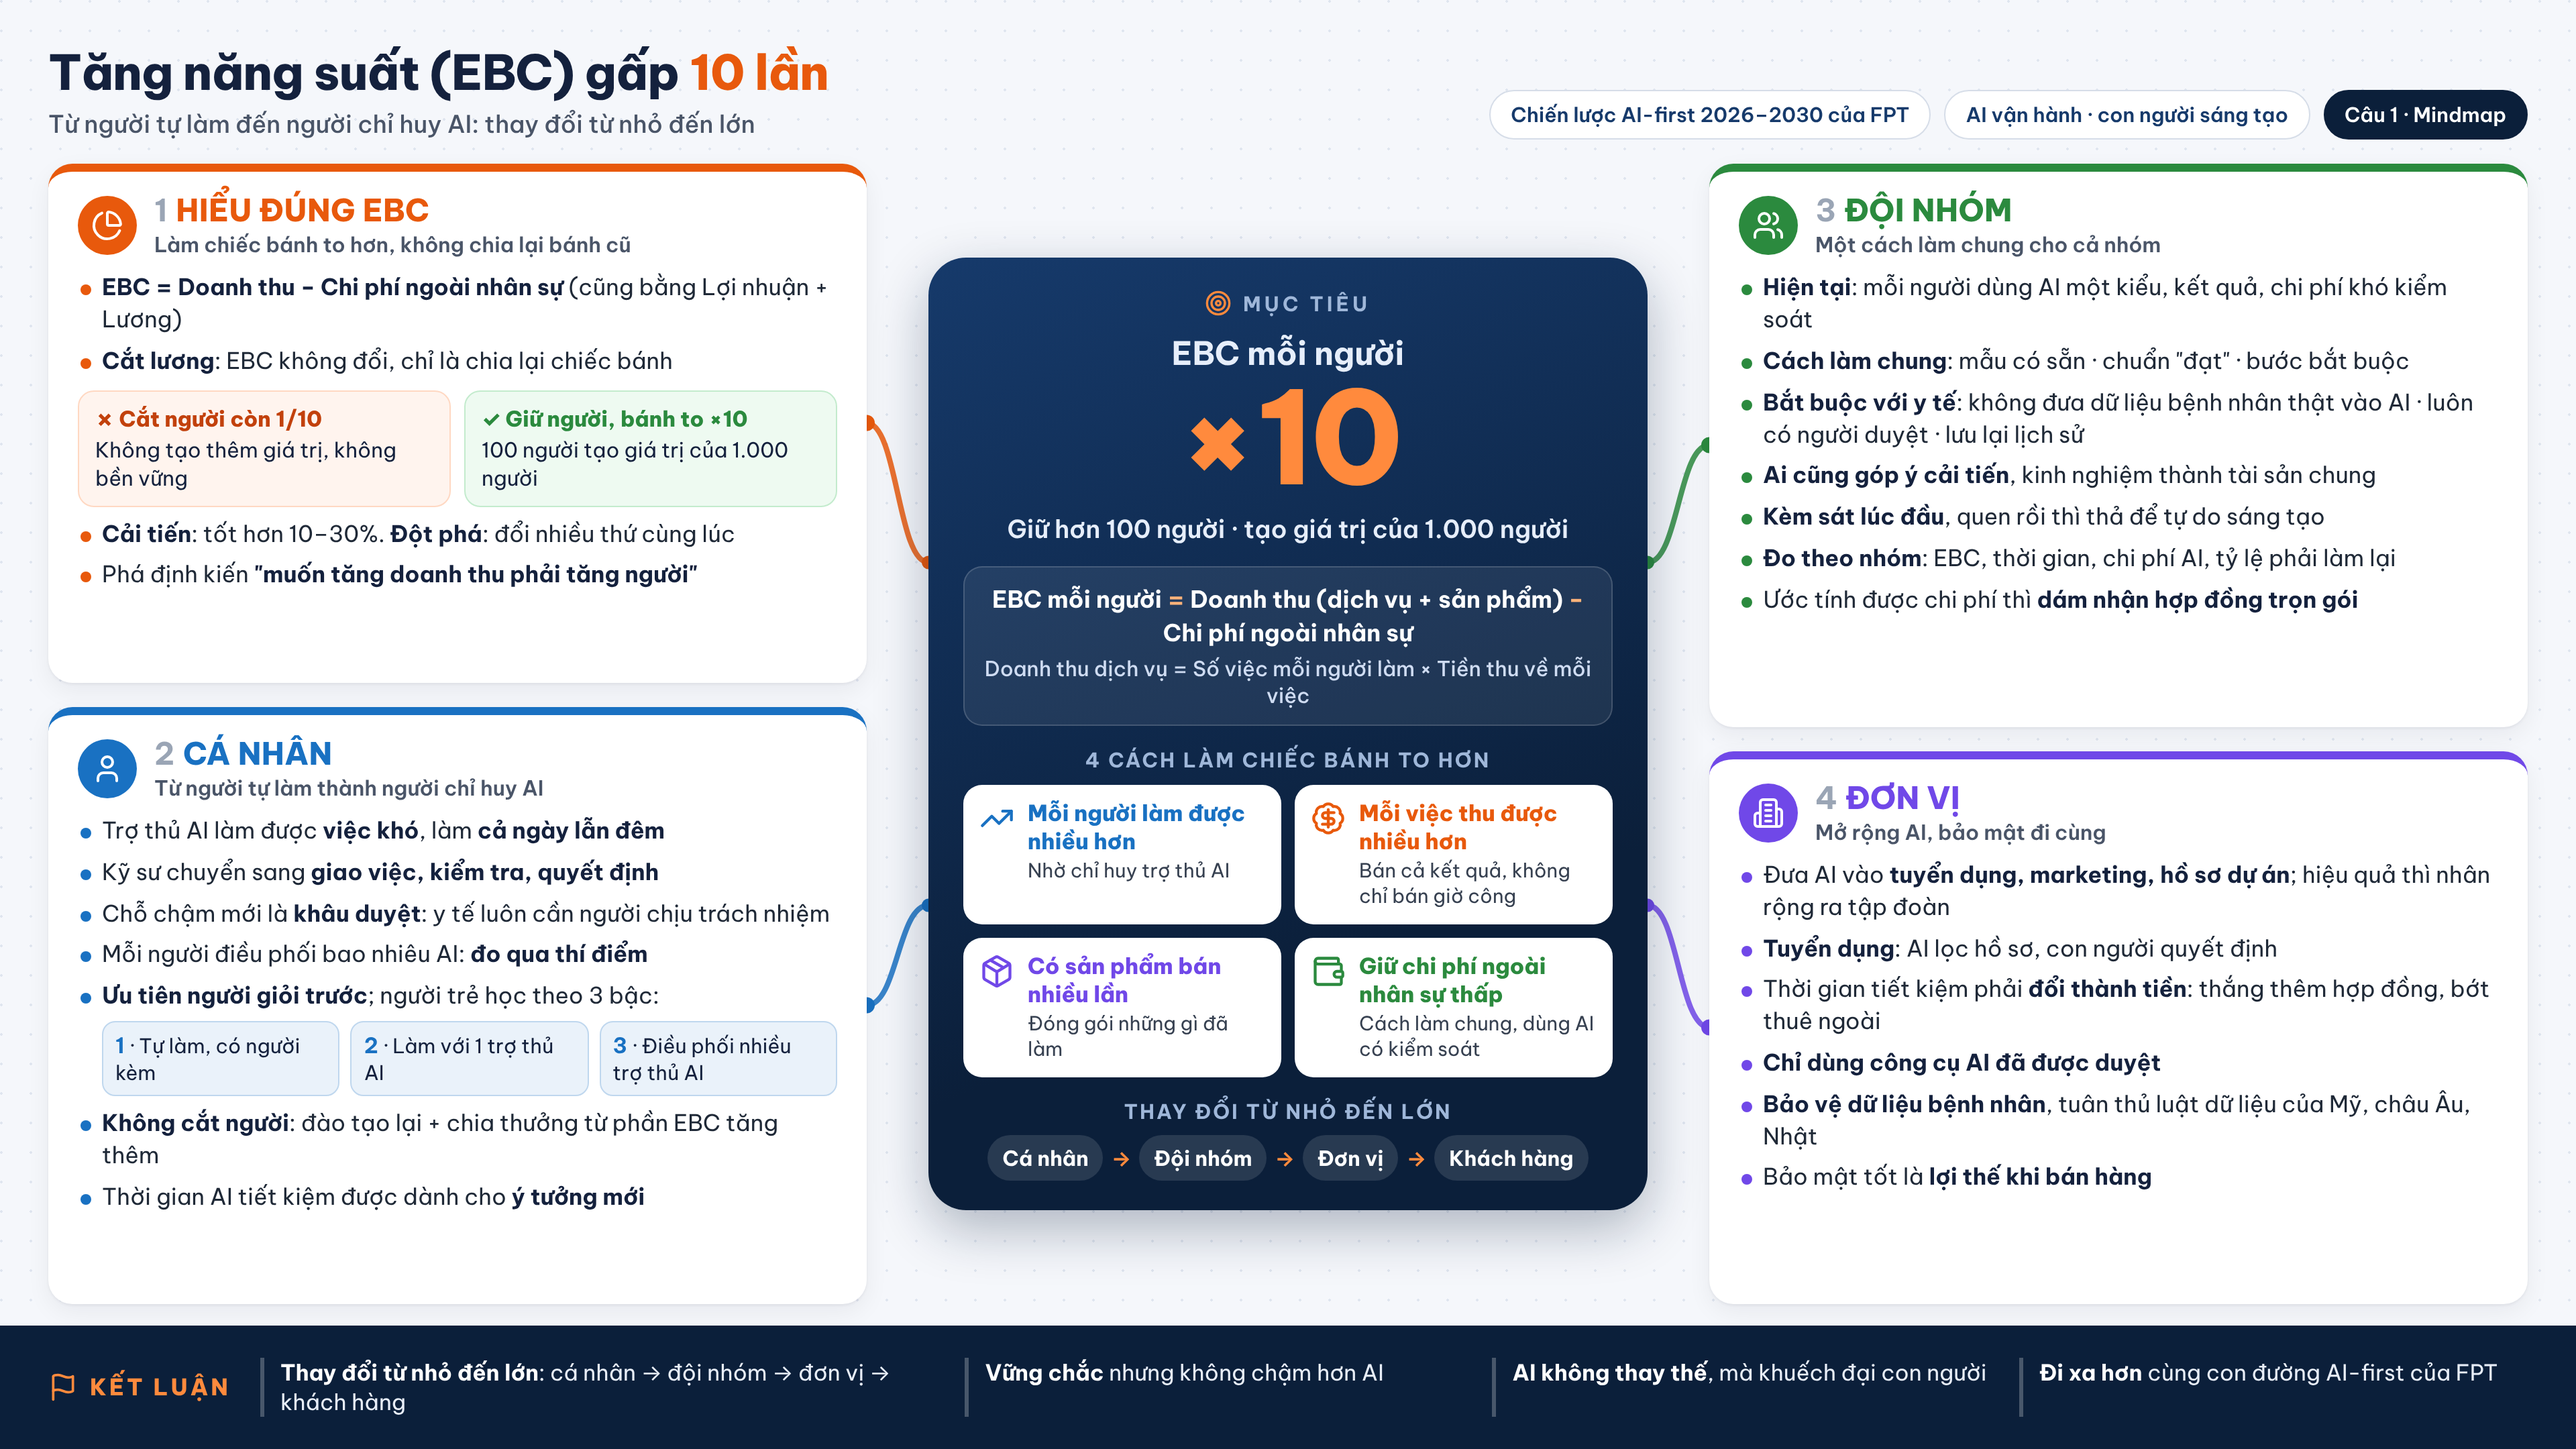
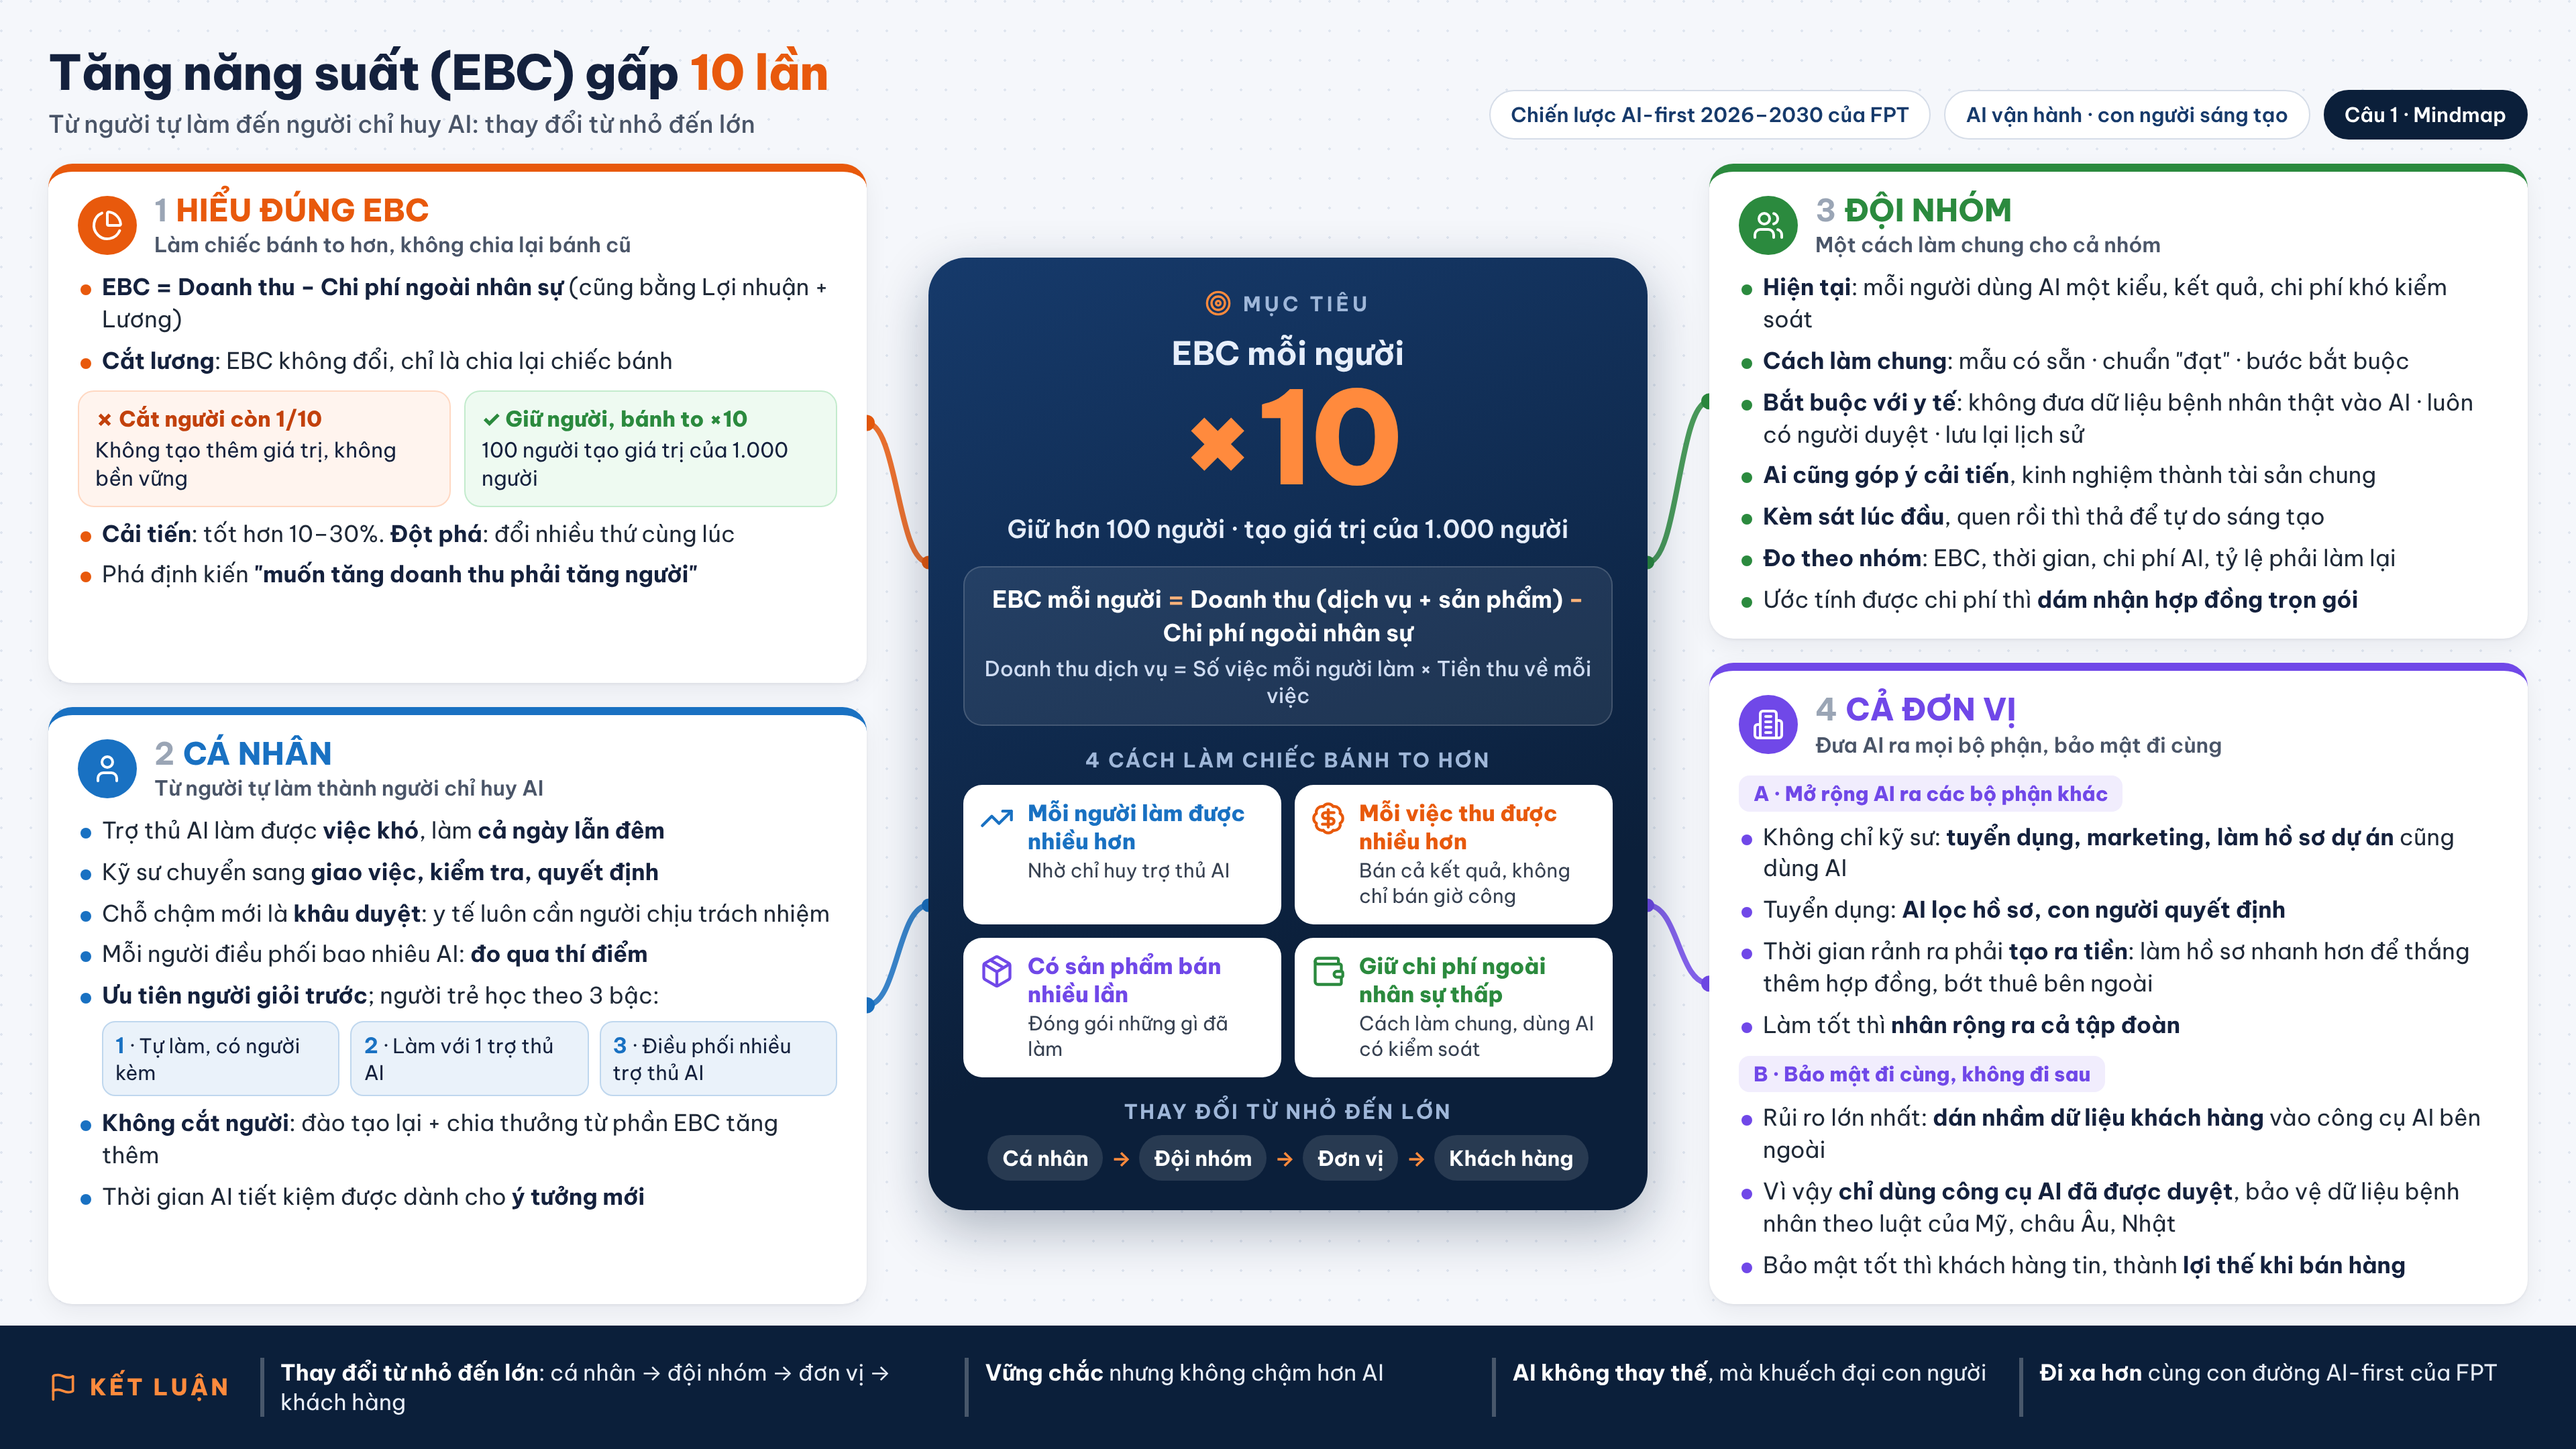
fix: split mindmap branch 4 into AI rollout and data security groups
Plain-language reasons for each point so the branch reads clearly.

Changed region(s): [[0.6562, 0.4343, 0.9688, 0.8995], [0.625, 0.3102, 0.6562, 0.3722], [0.625, 0.6514, 0.6562, 0.6824]]

diff --git a/mindmap/mindmap-cau-1.html b/mindmap/mindmap-cau-1.html
@@ -71,6 +71,8 @@
   .steps { display: flex; gap: 8px; margin: 6px 0 9px 18px; }
   .step { flex: 1; background: color-mix(in srgb, var(--c) 9%, #fff); border: 1px solid color-mix(in srgb, var(--c) 28%, #fff); border-radius: 10px; padding: 7px 9px; font-size: 15px; line-height: 1.3; }
   .step b { color: var(--c); font-size: 16px; }
+  .grp { display: inline-block; font-size: 15px; font-weight: 800; color: var(--c); background: color-mix(in srgb, var(--c) 10%, #fff); border-radius: 8px; padding: 4px 11px; margin: 2px 0 8px; }
+  .card ul + .grp { margin-top: 11px; }
   .c1 { --c: var(--c1); } .c2 { --c: var(--c2); } .c3 { --c: var(--c3); } .c4 { --c: var(--c4); }
 
   /* Hub */
@@ -203,14 +205,19 @@
       </section>
 
       <section class="card c4" id="n4">
-        <header><span class="badge"><span class="ico i-building"></span></span><div><h2><span class="n">4</span>ĐƠN VỊ</h2><div class="sub">Mở rộng AI, bảo mật đi cùng</div></div></header>
+        <header><span class="badge"><span class="ico i-building"></span></span><div><h2><span class="n">4</span>CẢ ĐƠN VỊ</h2><div class="sub">Đưa AI ra mọi bộ phận, bảo mật đi cùng</div></div></header>
+        <div class="grp">A · Mở rộng AI ra các bộ phận khác</div>
         <ul>
-          <li>Đưa AI vào <b>tuyển dụng, marketing, hồ sơ dự án</b>; hiệu quả thì nhân rộng ra tập đoàn</li>
-          <li><b>Tuyển dụng</b>: AI lọc hồ sơ, con người quyết định</li>
-          <li>Thời gian tiết kiệm phải <b>đổi thành tiền</b>: thắng thêm hợp đồng, bớt thuê ngoài</li>
-          <li><b>Chỉ dùng công cụ AI đã được duyệt</b></li>
-          <li><b>Bảo vệ dữ liệu bệnh nhân</b>, tuân thủ luật dữ liệu của Mỹ, châu Âu, Nhật</li>
-          <li>Bảo mật tốt là <b>lợi thế khi bán hàng</b></li>
+          <li>Không chỉ kỹ sư: <b>tuyển dụng, marketing, làm hồ sơ dự án</b> cũng dùng AI</li>
+          <li>Tuyển dụng: <b>AI lọc hồ sơ, con người quyết định</b></li>
+          <li>Thời gian rảnh ra phải <b>tạo ra tiền</b>: làm hồ sơ nhanh hơn để thắng thêm hợp đồng, bớt thuê bên ngoài</li>
+          <li>Làm tốt thì <b>nhân rộng ra cả tập đoàn</b></li>
+        </ul>
+        <div class="grp">B · Bảo mật đi cùng, không đi sau</div>
+        <ul>
+          <li>Rủi ro lớn nhất: <b>dán nhầm dữ liệu khách hàng</b> vào công cụ AI bên ngoài</li>
+          <li>Vì vậy <b>chỉ dùng công cụ AI đã được duyệt</b>, bảo vệ dữ liệu bệnh nhân theo luật của Mỹ, châu Âu, Nhật</li>
+          <li>Bảo mật tốt thì khách hàng tin, thành <b>lợi thế khi bán hàng</b></li>
         </ul>
       </section>
     </div>
